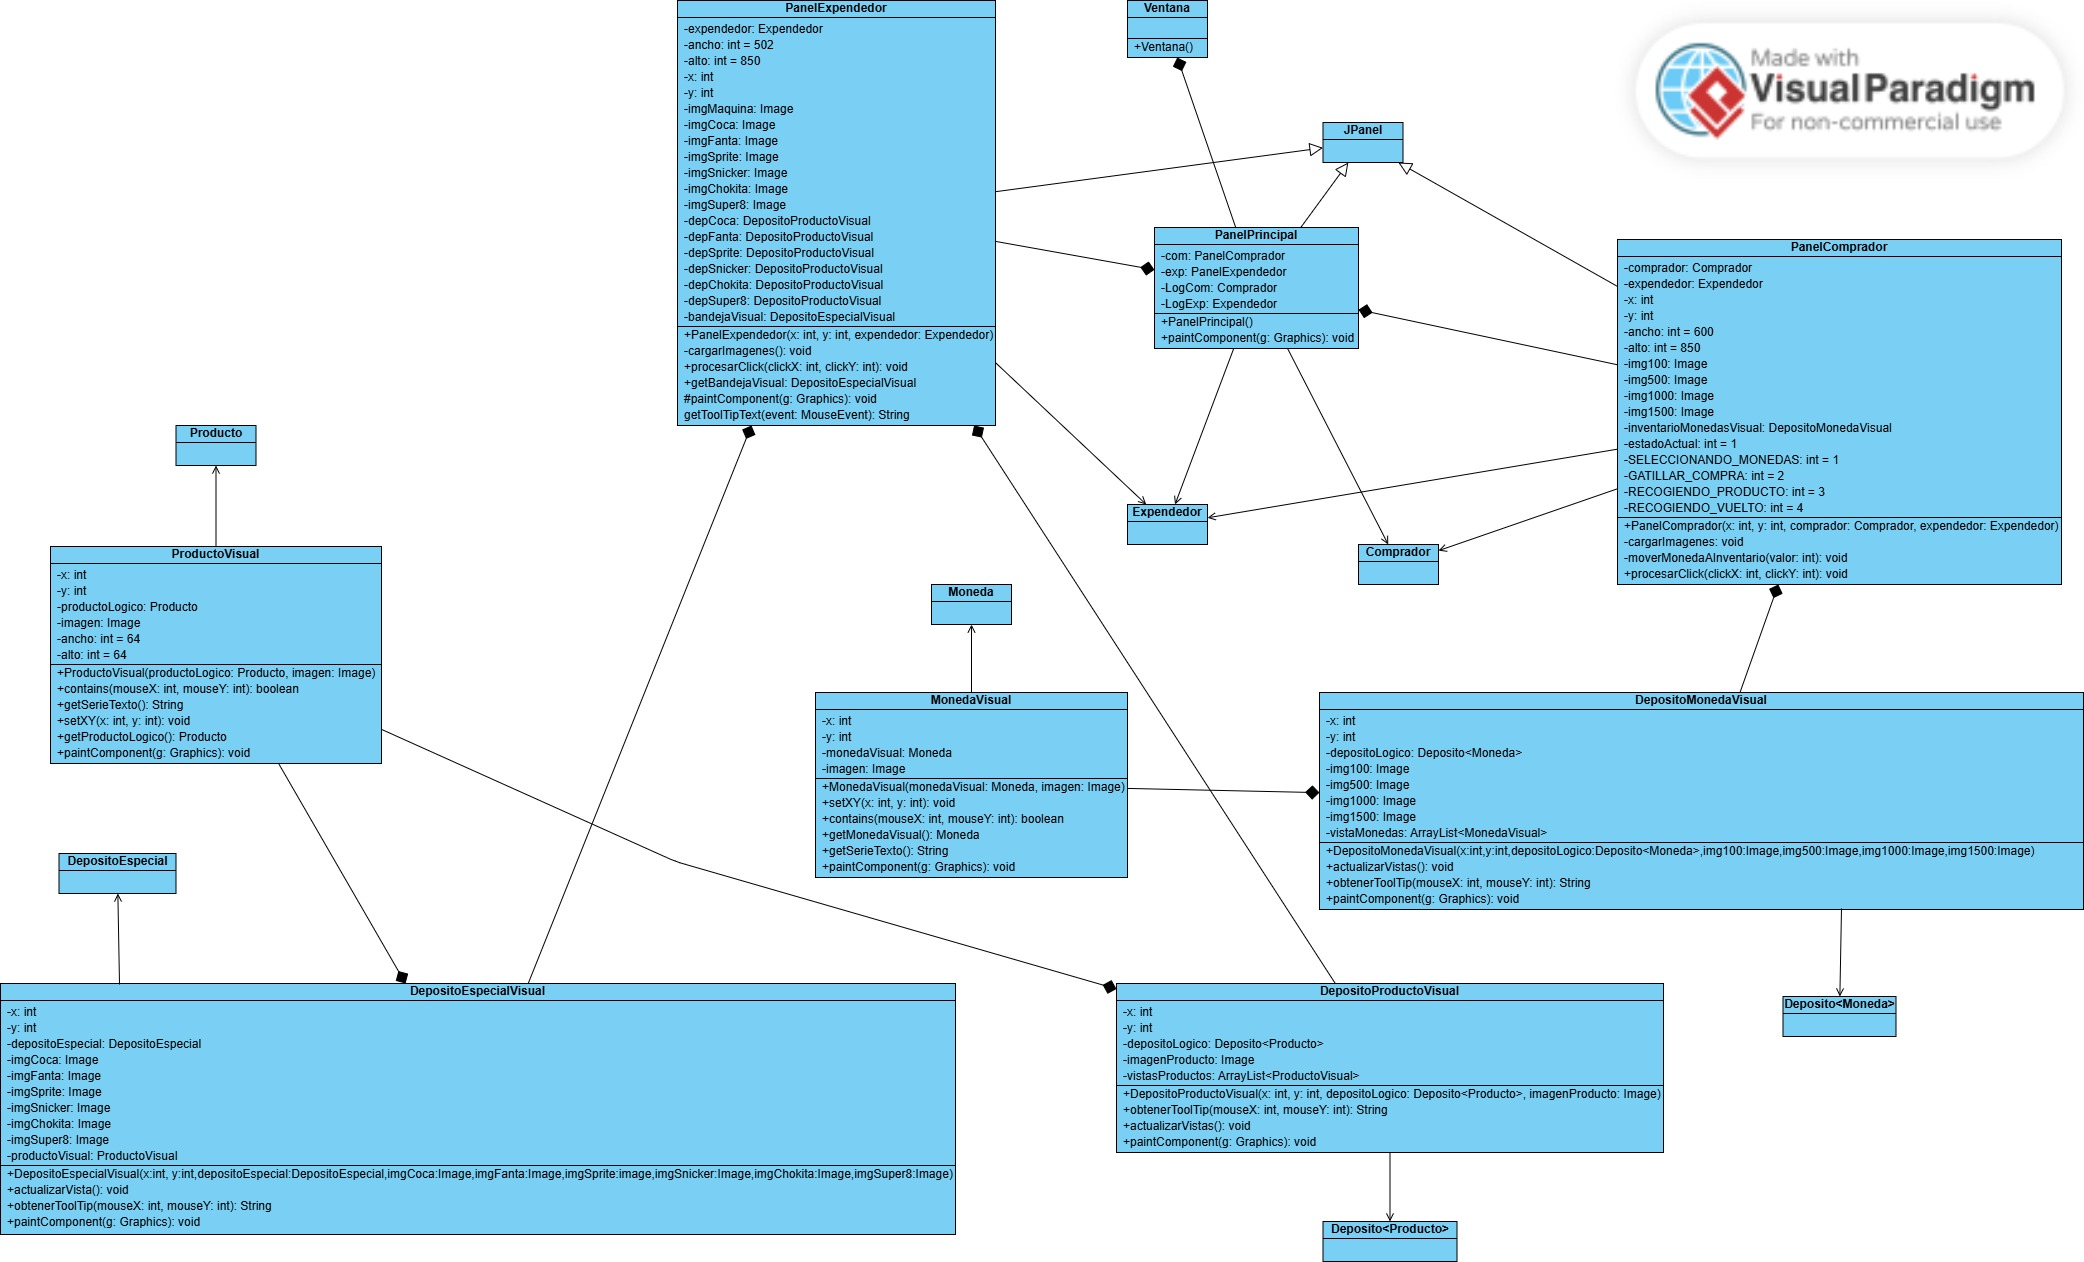
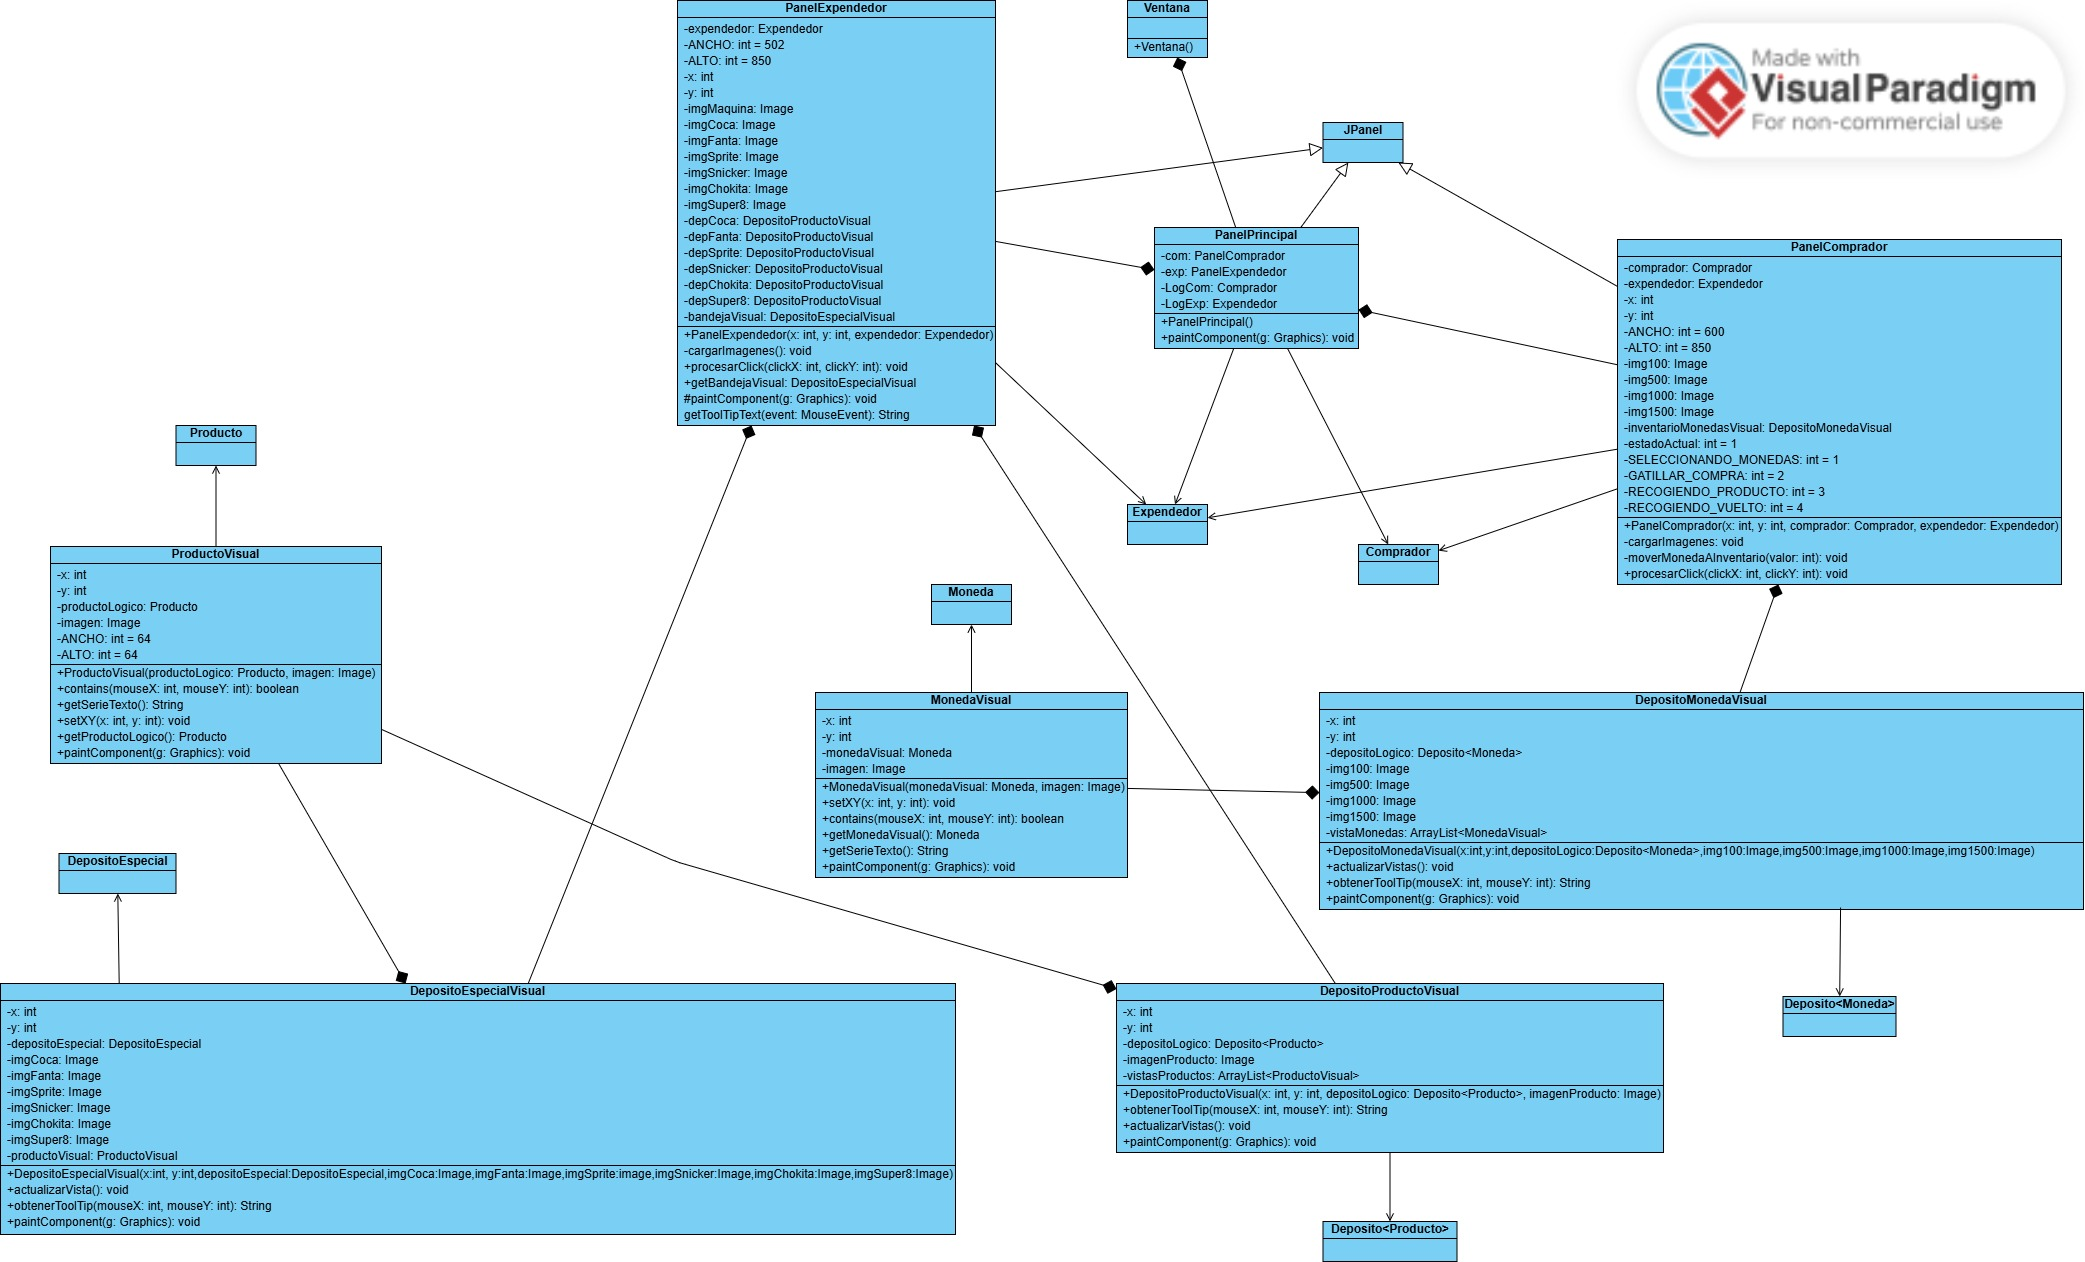
Actualizo imagenes de los diagramas UML

diff --git a/src/main/java/maqexpendedora/LogicaGrafica/Ventana.java b/src/main/java/maqexpendedora/LogicaGrafica/Ventana.java
@@ -1,6 +1,13 @@
 package LogicaGrafica;
 import javax.swing.JFrame;
+/**
+ * Ventana principal de la interfaz gráfica.
+ * Contiene y muestra la simulación de la máquina expendedora.
+ */
 public class Ventana extends JFrame {
+    /**
+     * Configura el tamaño, título y añade el panel principal a la ventana.
+     */
         public Ventana() {
             this.setTitle("Maquina Expendedora");
             this.setSize(1200
@@ -12,7 +19,10 @@ public class Ventana extends JFrame {
             this.add(panel);
         }
 
-
+    /**
+     * Punto de entrada del programa.
+     * @param args Argumentos de consola.
+     */
 
     public static void main(String[] args) {
         Ventana v= new Ventana();

diff --git a/README.md b/README.md
@@ -1,1 +1,1 @@
-# Tarea3_DOO
+# Tarea3_DOO!
